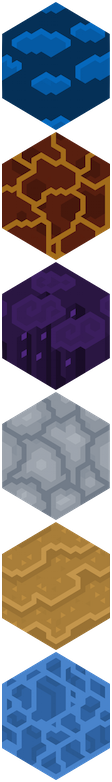
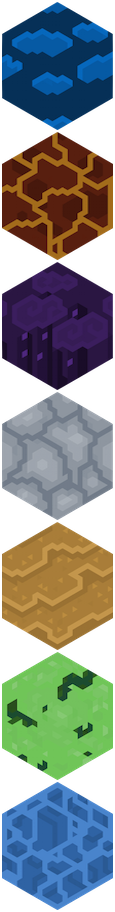
changed up how land tiles are placed in palette

diff --git a/public/js/thegame.js b/public/js/thegame.js
@@ -2,7 +2,7 @@ var theGame = function(game){};
 
 theGame.prototype = {
 	init: function(width, height){
-		hexagonWidth = 108;
+		hexagonWidth = 111;
 		hexagonHeight = 128;
 		gridSizeX = width; // actually counts number of hexes by pairs of rows
 		gridSizeY = height;  // actual number of rows
@@ -24,7 +24,7 @@ theGame.prototype = {
 		// prevents right click popups
 		game.canvas.oncontextmenu = function (e) {e.preventDefault();};
 
-		game.camera.bounds = null; // makes no bounds 
+		game.camera.bounds = null; // no bounds for camera
 	    hexagonGroup = game.add.group();
 	    hexagonGroup.scale.x = scaleFactor;
 	    hexagonGroup.scale.y = scaleFactor;
@@ -46,16 +46,6 @@ theGame.prototype = {
 	            }
 	        }
 	    }
-	    
-	    // THIS SECTION CENTERS THE GRID TO THE MAP
-	    hexagonGroup.x = (game.width-hexagonWidth*Math.ceil(gridSizeX/2))/2;
-	      if(gridSizeX%2==0){
-	           hexagonGroup.x-=hexagonWidth/4;
-	      }
-	    hexagonGroup.y = (game.height-Math.ceil(gridSizeY/2)*hexagonHeight-Math.floor(gridSizeY/2)*hexagonHeight/2)/2;
-	      if(gridSizeY%2==0){
-	           hexagonGroup.y-=hexagonHeight/8;
-	      }
 
 	    // add painting tile
 	    paintTile = game.add.sprite(0,0,"atlas");
@@ -81,21 +71,19 @@ theGame.prototype = {
 	    var xCor = 0;
 	    var yCor = 0;
 
-	    // Tile Numbers are Hardcoded right now might want to change
-	    for(var i = 0; i < 3; i ++){
-	        yCor += hexagonHeight + 5;
-	        for(var j = 0; j < 2; j ++){
-	            if(j == 0){
-	                xCor = 0;
-	            }
-	            else{
-	                xCor = hexagonWidth + 10;
-	            }
-	            var tile = game.add.button(xCor, yCor, "atlas", this.changePaint, this, index, index, index, index);
-	            hexagon.input.useHandCursor = true;
-	            paletteGroup.add(tile);
-	            index++;
-	        }
+	    // Place different land tiles on palette
+	    for(var i = 0; i < 7; i++){ // really don't want to use 7 here. Want to find length of JSON Hash
+	    	if(i % 2 == 0){
+	    		xCor = 0;
+	    		yCor += hexagonHeight + 5;
+	    	}
+	    	else{
+	    		xCor = hexagonWidth + 10;
+	    	}
+	    	var tile = game.add.button(xCor, yCor, "atlas", this.changePaint, this, index, index, index, index);
+	        hexagon.input.useHandCursor = true;
+	        paletteGroup.add(tile);
+	        index++;
 	    }
 
 	    paletteGroup.fixedToCamera = true; // keeps palette in correct position
